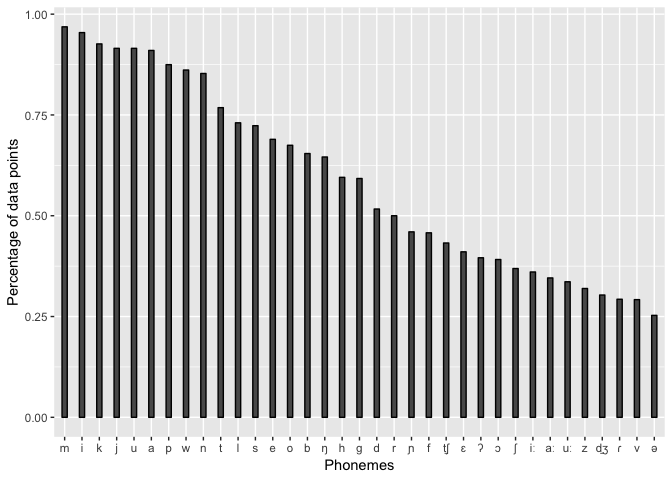
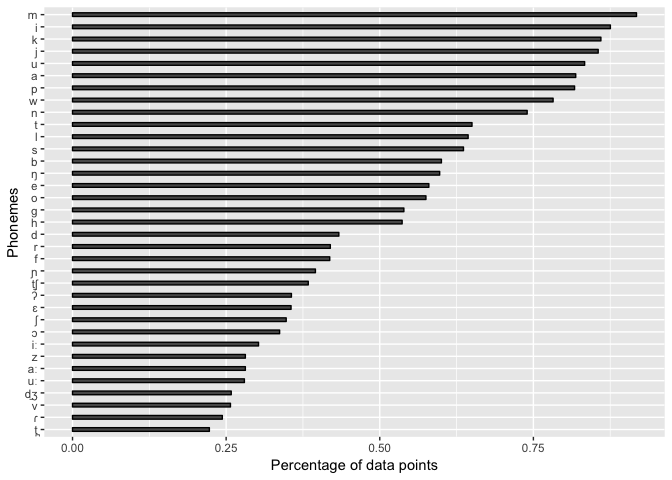
adds horizontal bar plots

diff --git a/frequency/segment-frequency.md b/frequency/segment-frequency.md
@@ -13,26 +13,40 @@ phoible <- read.csv('https://raw.githubusercontent.com/phoible/dev/master/data/p
 ```
 
 ``` r
+# Merge in Glottolog data
+# Glottolog 3.3 data
+# https://cdstar.shh.mpg.de/bitstreams/EAEA0-E7DE-FA06-8817-0/glottolog_languoid.csv.zip
+languoids <- read.csv('../data/glottolog_languoid.csv/languoid.csv', stringsAsFactors = FALSE) 
+geo <- read.csv(url("https://cdstar.shh.mpg.de/bitstreams/EAEA0-E7DE-FA06-8817-0/languages_and_dialects_geo.csv"), stringsAsFactors = FALSE)
+
+phoible <- left_join(phoible, languoids, by=c("Glottocode"="id"))
+phoible <- left_join(phoible, geo)
+```
+
+    ## Joining, by = c("name", "level", "latitude", "longitude")
+
+``` r
 # Get cross-linguistic phoneme counts from all inventories
-phonemes <- phoible %>% group_by(Phoneme) %>% summarize(count=n())
+phonemes <- phoible %>% group_by(Phoneme, SegmentClass) %>% summarize(count=n())
 phonemes$coverage <- phonemes$count/nrow(phonemes)
 phonemes.sorted <- phonemes %>% arrange(desc(coverage))
 # phonemes.sorted <- phonemes.sorted %>% head(n=25)
 head(phonemes.sorted)
 ```
 
-    ## # A tibble: 6 x 3
-    ##   Phoneme count coverage
-    ##   <chr>   <int>    <dbl>
-    ## 1 m        2914    0.918
-    ## 2 i        2779    0.875
-    ## 3 k        2730    0.860
-    ## 4 j        2716    0.855
-    ## 5 u        2646    0.833
-    ## 6 a        2600    0.819
+    ## # A tibble: 6 x 4
+    ## # Groups:   Phoneme [6]
+    ##   Phoneme SegmentClass count coverage
+    ##   <chr>   <chr>        <int>    <dbl>
+    ## 1 m       consonant     2914    0.918
+    ## 2 i       vowel         2779    0.875
+    ## 3 k       consonant     2730    0.860
+    ## 4 j       consonant     2716    0.855
+    ## 5 u       vowel         2646    0.833
+    ## 6 a       vowel         2600    0.819
 
 ``` r
-# All phonemes
+# All phonemes across all inventories in the full sample
 temp <- head(phonemes.sorted, n=35)
 p <- ggplot(aes(y=coverage, x=reorder(Phoneme, -coverage)), data=temp) +
   geom_bar(stat="identity", width = 0.3, color = "black") +
@@ -41,7 +55,19 @@ p <- ggplot(aes(y=coverage, x=reorder(Phoneme, -coverage)), data=temp) +
 p
 ```
 
-![](segment-frequency_files/figure-markdown_github/unnamed-chunk-4-1.png)
+![](segment-frequency_files/figure-markdown_github/unnamed-chunk-5-1.png)
+
+``` r
+# All phonemes across all inventories in the full sample - flipped
+temp <- head(phonemes.sorted, n=35)
+p <- ggplot(aes(y=coverage, x=reorder(Phoneme, coverage)), data=temp) +
+  geom_bar(stat="identity", width = 0.3, color = "black") +
+  xlab("Phonemes") +
+  ylab("Percentage of data points")
+p + coord_flip()
+```
+
+![](segment-frequency_files/figure-markdown_github/unnamed-chunk-6-1.png)
 
 ``` r
 # Get cross-linguistic phoneme counts by grouping all ISO codes
@@ -65,6 +91,14 @@ head(phonemes.sorted)
     ## 6 a        1911    0.91
 
 ``` r
+# Merge in SegmentClass values
+segment.class <- phoible %>% select(Phoneme, SegmentClass) %>% distinct()
+phonemes.sorted <- left_join(phonemes.sorted, segment.class)
+```
+
+    ## Joining, by = "Phoneme"
+
+``` r
 # All phonemes across all ISOs
 temp <- head(phonemes.sorted, n=35)
 p <- ggplot(aes(y=coverage, x=reorder(Phoneme, -coverage)), data=temp) +
@@ -74,4 +108,186 @@ p <- ggplot(aes(y=coverage, x=reorder(Phoneme, -coverage)), data=temp) +
 p
 ```
 
-![](segment-frequency_files/figure-markdown_github/unnamed-chunk-6-1.png)
+![](segment-frequency_files/figure-markdown_github/unnamed-chunk-8-1.png)
+
+``` r
+# All phonemes across all ISOs - flipped
+temp <- head(phonemes.sorted, n=35)
+p <- ggplot(aes(y=coverage, x=reorder(Phoneme, coverage)), data=temp) +
+  geom_bar(stat="identity", width = 0.3, color = "black") +
+  xlab("Phonemes") +
+  ylab("Percentage of data points")
+p + coord_flip()
+```
+
+![](segment-frequency_files/figure-markdown_github/unnamed-chunk-9-1.png)
+
+``` r
+# Consonants only
+temp <- phonemes.sorted %>% filter(SegmentClass == "consonant") %>% head(phonemes.sorted, n=35)
+p <- ggplot(aes(y=coverage, x=reorder(Phoneme, -coverage)), data=temp) +
+  geom_bar(stat="identity", width = 0.3, color = "black") +
+  xlab("Phonemes") +
+  ylab("Percentage of data points")
+p
+```
+
+![](segment-frequency_files/figure-markdown_github/unnamed-chunk-10-1.png)
+
+``` r
+# Consonants only flipped
+p <- ggplot(aes(y=coverage, x=reorder(Phoneme, coverage)), data=temp) +
+  geom_bar(stat="identity", width = 0.3, color = "black") +
+  xlab("Phonemes") +
+  ylab("Percentage of data points")
+p + coord_flip()
+```
+
+![](segment-frequency_files/figure-markdown_github/unnamed-chunk-11-1.png)
+
+``` r
+# Vowels only
+temp <- phonemes.sorted %>% filter(SegmentClass == "vowel") %>% head(phonemes.sorted, n=35)
+p <- ggplot(aes(y=coverage, x=reorder(Phoneme, -coverage)), data=temp) +
+  geom_bar(stat="identity", width = 0.3, color = "black") +
+  xlab("Phonemes") +
+  ylab("Percentage of data points")
+p
+```
+
+![](segment-frequency_files/figure-markdown_github/unnamed-chunk-12-1.png)
+
+``` r
+# Vowels only
+temp <- phonemes.sorted %>% filter(SegmentClass == "vowel") %>% head(phonemes.sorted, n=35)
+p <- ggplot(aes(y=coverage, x=reorder(Phoneme, coverage)), data=temp) +
+  geom_bar(stat="identity", width = 0.3, color = "black") +
+  xlab("Phonemes") +
+  ylab("Percentage of data points")
+p + coord_flip()
+```
+
+![](segment-frequency_files/figure-markdown_github/unnamed-chunk-13-1.png)
+
+``` r
+# Summarize how frequent infrequent sounds are
+temp <- phonemes.sorted %>% group_by(count) %>% summarize(segments=n())
+temp <- temp %>% head(n=10)
+p <- ggplot(aes(y=segments, x=reorder(count, -segments)), data=temp) +
+  geom_bar(stat="identity", width = 0.3, color = "black") +
+  xlab("How many languages they occur in") +
+  ylab("Number of segment types")
+p
+```
+
+![](segment-frequency_files/figure-markdown_github/unnamed-chunk-14-1.png)
+
+``` r
+# Summarize how frequent infrequent sounds are - flipped
+temp <- phonemes.sorted %>% group_by(count) %>% summarize(segments=n())
+temp <- temp %>% head(n=10)
+p <- ggplot(aes(y=segments, x=reorder(count, segments)), data=temp) +
+  geom_bar(stat="identity", width = 0.3, color = "black") +
+  xlab("How many languages they occur in") +
+  ylab("Number of segment types")
+p + coord_flip()
+```
+
+![](segment-frequency_files/figure-markdown_github/unnamed-chunk-15-1.png)
+
+``` r
+iso.marcoareas <- phoible %>% select(ISO6393, macroarea) %>% distinct()
+phonemes.per.iso.with.geo <- left_join(phonemes.per.iso, iso.marcoareas)
+```
+
+    ## Joining, by = "ISO6393"
+
+``` r
+phonemes.per.iso.with.geo
+```
+
+    ## # A tibble: 82,346 x 4
+    ## # Groups:   ISO6393 [?]
+    ##    ISO6393 Phoneme count macroarea
+    ##    <chr>   <chr>   <int> <chr>    
+    ##  1 aae     a           2 Eurasia  
+    ##  2 aae     b           2 Eurasia  
+    ##  3 aae     c           1 Eurasia  
+    ##  4 aae     ç           2 Eurasia  
+    ##  5 aae     d           2 Eurasia  
+    ##  6 aae     ð           2 Eurasia  
+    ##  7 aae     dz          2 Eurasia  
+    ##  8 aae     d̠ʒ          2 Eurasia  
+    ##  9 aae     ə           1 Eurasia  
+    ## 10 aae     ɛ           2 Eurasia  
+    ## # ... with 82,336 more rows
+
+``` r
+# How many data points do we have per macroregion (by ISO code)
+x <- phonemes.per.iso.with.geo %>% group_by(ISO6393, macroarea) %>% summarize(count=n())
+geo.counts <- x %>% group_by(macroarea) %>% summarise(totals=n())
+
+# 
+macro.area.phoneme.counts <- phonemes.per.iso.with.geo %>% group_by(macroarea, Phoneme) %>% summarize(count = n()) %>% filter(macroarea!="")  %>% filter(!is.na(macroarea))
+
+y <- left_join(macro.area.phoneme.counts, geo.counts)
+```
+
+    ## Joining, by = "macroarea"
+
+``` r
+y$coverage <- y$count/y$totals
+y
+```
+
+    ## # A tibble: 5,414 x 5
+    ## # Groups:   macroarea [?]
+    ##    macroarea Phoneme count totals coverage
+    ##    <chr>     <chr>   <int>  <int>    <dbl>
+    ##  1 Africa    ˥          40    708  0.0565 
+    ##  2 Africa    ˥˦          4    708  0.00565
+    ##  3 Africa    ˥˧          1    708  0.00141
+    ##  4 Africa    ˥˨          1    708  0.00141
+    ##  5 Africa    ˥˨˧         1    708  0.00141
+    ##  6 Africa    ˥˩         40    708  0.0565 
+    ##  7 Africa    ˦         452    708  0.638  
+    ##  8 Africa    ˦˥          3    708  0.00424
+    ##  9 Africa    ˦˦˨         1    708  0.00141
+    ## 10 Africa    ˦˧          9    708  0.0127 
+    ## # ... with 5,404 more rows
+
+``` r
+z <- left_join(y, phonemes.sorted, by=c("Phoneme"="Phoneme"))
+```
+
+``` r
+theme_set(
+  theme_bw()
+)
+
+# Get top n by area
+top.by.area <- z %>% group_by(macroarea) %>% filter(SegmentClass=="consonant") %>% top_n(n = 10, wt = coverage.y)
+
+p <- ggplot(aes(y=coverage.x, x=reorder(Phoneme, -count.y), fill=macroarea), data=top.by.area) +
+  geom_bar(stat="identity", width = 0.9, position=position_dodge(0.9)) +
+  xlab("Phonemes") +
+  ylab("Percentage of data points") +
+  scale_fill_manual(values=c(alpha('#4477aa', .8), alpha('#66ccee', .8), alpha('#228833', .8), alpha('#ccbb44', .8), alpha('#ee6677', .8), alpha('#aa3377', .8)))
+p
+```
+
+![](segment-frequency_files/figure-markdown_github/unnamed-chunk-17-1.png)
+
+``` r
+# Get top n by area with phonemes on y axis
+top.by.area <- z %>% group_by(macroarea) %>% filter(SegmentClass=="consonant") %>% top_n(n = 20, wt = coverage.y)
+
+p <- ggplot(aes(y=coverage.x, x=reorder(Phoneme, count.y), fill=macroarea), data=top.by.area) +
+  geom_bar(stat="identity", width = 0.9, position=position_dodge(0.9)) +
+  xlab("Phonemes") +
+  ylab("Percentage of data points") +
+  scale_fill_manual(values=c(alpha('#4477aa', .8), alpha('#66ccee', .8), alpha('#228833', .8), alpha('#ccbb44', .8), alpha('#ee6677', .8), alpha('#aa3377', .8)))
+p + coord_flip()
+```
+
+![](segment-frequency_files/figure-markdown_github/unnamed-chunk-18-1.png)
